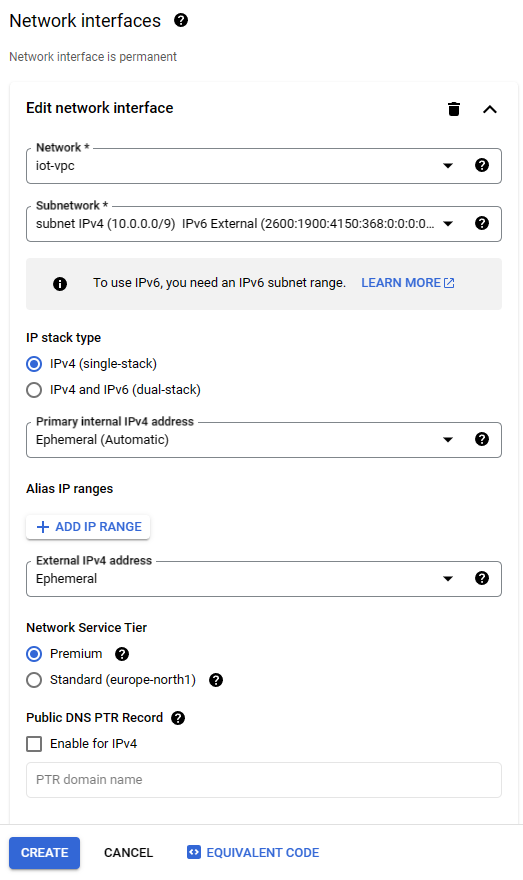
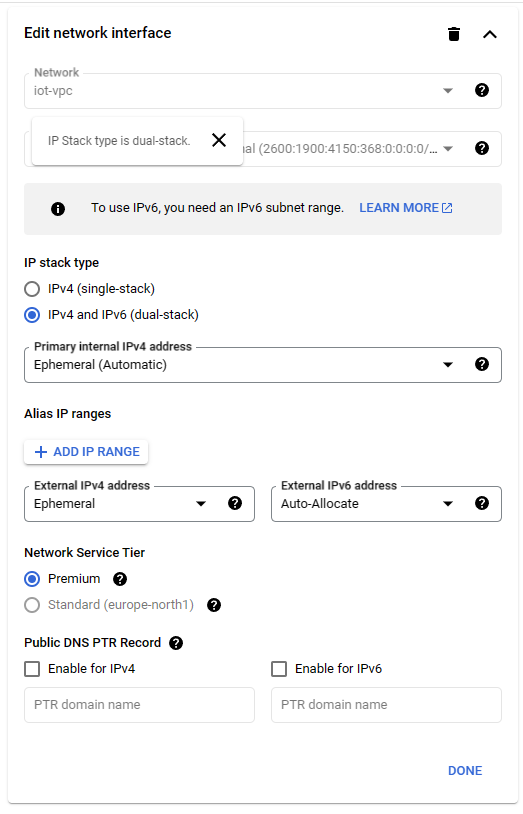
Update readme: Fix guide for VM creation and update CoAp guide.

diff --git a/README.md b/README.md
@@ -286,11 +286,11 @@ Under Advanced options the Networking settings must be changed.
 ![VM instance settings 3](images/VMinstance3.png)
 </details>
 
-Now everything should be properly set up and the VM instance can be created.
+Now everything should be properly set up and the VM instance can be created. The instance should dispaly the external ipv6 address.
+
+![SSH to VM](images/VMinstance4.png)
 
 The SSH connection to the VM instance can be made by clicking the SSH button under Connect. This creates new window with the ssh connection.
-
-![SSH to VM](images/sshToVM.png)
 
 ### Set up CoAP server to VM
 
@@ -309,12 +309,14 @@ Connect to the linux VM, where you want the the CoAp server to be deployed.
     sudo apt-get update
     ```
 
-3. install python3.8-venv
+3. Create python venv
+
+* install python3.8-venv
     ```bash
-    sudo apt install python3.8-venv
+    sudo apt install python3.8-venv -y
     ```
 
-4. Create and activate new python venv
+* Create and activate new python venv
 
     ```bash
     python3 -m venv ./CoaP-server-venv
@@ -323,37 +325,71 @@ Connect to the linux VM, where you want the the CoAp server to be deployed.
     source ./CoaP-server-venv/bin/activate
     ```
 
-5. intall autoconf on linux 
+4. install aiocoap
+
+    First all dependencies have to be installed:
+
+* install autoconf on linux 
 
     ```bash
-    sudo apt-get install autoconf
+    sudo apt-get install autoconf -y
     ```
 
-6. install python-dev for 
+* install python-dev for 
 
     ```bash
     sudo apt-get install python-dev-is-python3 -y
     ```
 
-7. install build-essential
+* install build-essential
 
     ```bash
-    sudo apt-get install build-essential
+    sudo apt-get install build-essential -y
     ```
 
-8. intall aiocoap to python venv
+* Finally install aiocoap to the activated python venv
 
     ```bash
     pip3 install --upgrade "aiocoap[all]"
     ```
 #### **Start the CoAp server**
 
-1. move to the Coap server directory
+1. Check the external ipv6 address for your VM.
+
+    * Install net-tools
+        ```bash
+        sudo apt-get install net-tools -y
+        ```
+    * Check the external ipv6 address
+        ```bash
+        ifconfig
+        # output:
+        ens4: flags=4163<UP,BROADCAST,RUNNING,MULTICAST>  mtu 1460
+                inet 10.0.0.5  netmask 255.255.255.255  broadcast 0.0.0.0
+                inet6 fe80::4001:aff:fe00:5  prefixlen 64  scopeid 0x20<link>
+                inet6 2600:1900:4150:368:0:3::  prefixlen 128  scopeid 0x0<global> # Take the ipv6 address from this line
+                ether 42:01:0a:00:00:05  txqueuelen 1000  (Ethernet)
+                RX packets 10765  bytes 114444072 (114.4 MB)
+                RX errors 0  dropped 0  overruns 0  frame 0
+                TX packets 7960  bytes 938787 (938.7 KB)
+                TX errors 0  dropped 0 overruns 0  carrier 0  collisions 0
+
+        lo: flags=73<UP,LOOPBACK,RUNNING>  mtu 65536
+                inet 127.0.0.1  netmask 255.0.0.0
+                inet6 ::1  prefixlen 128  scopeid 0x10<host>
+                loop  txqueuelen 1000  (Local Loopback)
+                RX packets 216  bytes 22910 (22.9 KB)
+                RX errors 0  dropped 0  overruns 0  frame 0
+                TX packets 216  bytes 22910 (22.9 KB)
+                TX errors 0  dropped 0 overruns 0  carrier 0  collisions 0
+        ```
+
+2. move to the Coap server directory
     ```bash
     cd IoT-miniproject-1/Coap-Server/
     ```
 
-2. Start the CoAp server using oyur external ipv6 address and port 8683
+3. Start the CoAp server using your external ipv6 address and port 8683
     ```bash
     sh start_server.sh ip=<external-ipv6-address-of-the-VM> port=8683
     ```
